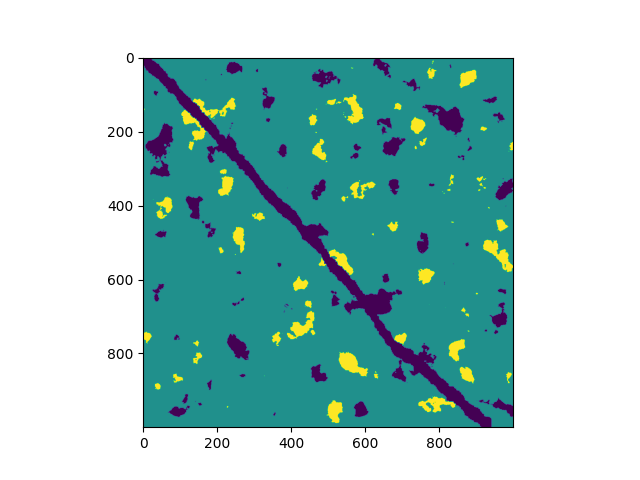
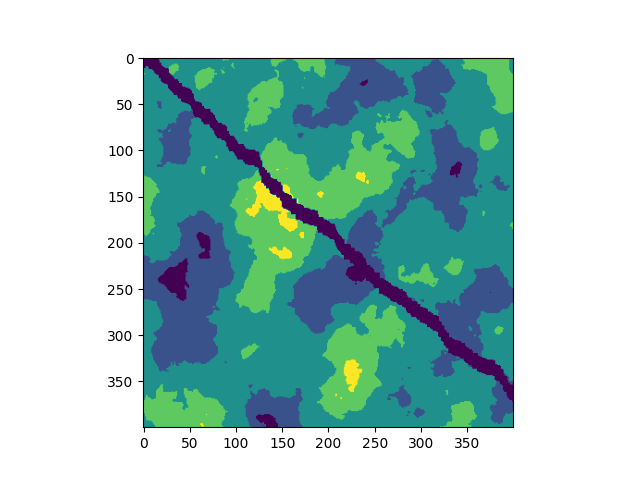
Working on gifs

Changed region(s): [[0.1562, 0.125, 0.8125, 0.9375], [0.1562, 0.5, 0.2188, 0.5312]]

diff --git a/evo_island_main.py b/evo_island_main.py
@@ -4,7 +4,7 @@ import random
 import matplotlib.pyplot as plt
 import imageio
 
-level_difficulty = {1: 10, 2: 60, 3: 80}
+level_difficulty = {1: 10, 2: 40, 3: 60, 4: 80, 5: 90}
 
 def visualize_matrix(matrix):
     fig, ax = plt.subplots()
@@ -53,7 +53,7 @@ def generate_terrain(n, use_perlin_noise=True, randomize_params=True):
                                             lacunarity=lacunarity, repeatx=n, repeaty=n, base=0)
 
         # Scale and shift the values to the range [1, 3]
-        world = (world - np.min(world)) * (3-1)/(np.max(world)-np.min(world)) + 1
+        world = (world - np.min(world)) * (5-1)/(np.max(world)-np.min(world)) + 1
 
         # Round the values to integers
         world = np.round(world)
@@ -218,7 +218,7 @@ def run_game():
 
     
     # configurable parameters, change as needed
-    map_size = 1000
+    map_size = 400
     simulation_steps = 1000
     use_perlin_noise = True  # set to False to use random integer generation instead
     use_random_params = False # set to False to use preset perlin parameters
@@ -240,16 +240,15 @@ def run_game():
     print ("Migration Route:" + str(use_migration_route))
     print ("Simulation Steps:" + str(simulation_steps))
     print ("\n")
-    print ("Displaying Game_World in console.")
-    print ("\n")
-    visualize_matrix(game_world)
+    #print ("Displaying Game_World in console.")
+    #visualize_matrix(game_world)
     save_matrix_image(game_world, 'Game_World')
     
     frames = [] # array to save images of the heatmap
 
     print ("Beginning Simulation...")
     print ("\n")
-    #game loop here
+    #main game loop here
     current_sim_step = 0
     while (current_sim_step < simulation_steps):
         for i in range(len(agent_matrix)):
@@ -259,18 +258,19 @@ def run_game():
         current_sim_step += 1
         im = plt.imshow(agent_matrix, cmap='viridis')
         frames.append(im.get_array())
-        print ("Simulation complete.") 
-        print ("\n")
-        
+   
 
     #print final state
-    print ("Displaying Final_Map_State in console.")
-    visualize_matrix(agent_matrix)
+    #print ("Displaying Final_Map_State in console.")
+    #visualize_matrix(agent_matrix)
     save_matrix_image(agent_matrix, 'Final_Game_State')
     
     #Create gif of execution
     print ("Generating gif...")
-    imageio.mimsave('heatmap.gif', frames, fps=10)
+    imageio.mimsave('heatmap.gif', frames, fps=30)
+
+    print ("Simulation complete.") 
+    print ("\n")
        
 #main
 def main():
